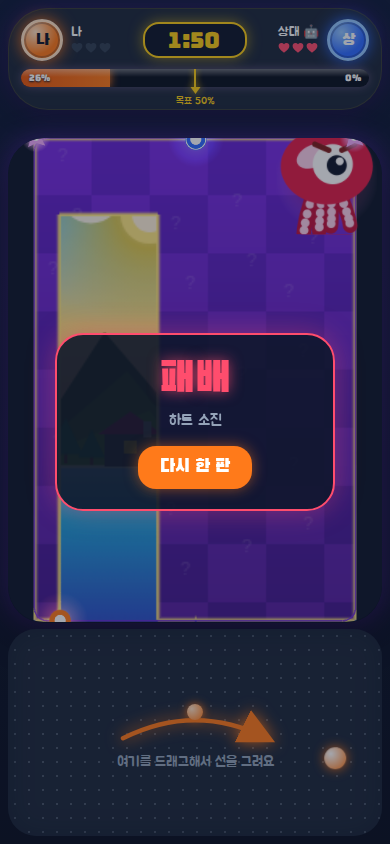
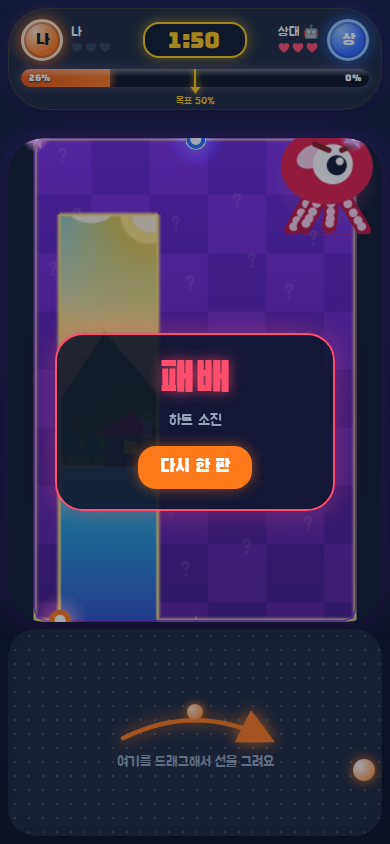
fix: keep the full Graphics spine through the cutter
CI failed at 0.4% missing white because trimTrailTip left the
orange orb ring (22–25px from the last trail cell) without a
white core. Draw the full polyline every update, keep it above
the cutter, and skip only the disc itself (lerp + far ring).

Local cover-layout 60/60 (10/10): 390/360/412 missing 0%, white
median 2–3px, p95 ≤1.9ms.

Changed region(s): [[0.7077, 0.2156, 0.9538, 0.2773], [0.8, 0.8626, 0.9846, 0.955]]

diff --git a/tests/e2e/cover-layout.spec.ts b/tests/e2e/cover-layout.spec.ts
@@ -77,6 +77,7 @@ async function measureWholeTrailWhite(page: Page): Promise<{
   whiteMin: number;
   orangeMedian: number;
   sampleMins: number[];
+  missAt: { i: number; dTip: number; dStart: number; min: number }[];
   backing: { w: number; h: number };
 }> {
   const png = await page.locator('#game-container canvas').screenshot();
@@ -107,6 +108,7 @@ async function measureWholeTrailWhite(page: Page): Promise<{
       const sampleMins: number[] = [];
       const whiteWidths: number[] = [];
       const orangeWidths: number[] = [];
+      const missAt: { i: number; dTip: number; dStart: number; min: number }[] = [];
       let missing = 0;
       let sections = 0;
       const isWhite = (p: [number, number, number]) => Math.min(p[0], p[1], p[2]) > 225;
@@ -136,12 +138,12 @@ async function measureWholeTrailWhite(page: Page): Promise<{
           prev = b;
           continue;
         }
-        // Orb disc covers the tip; origin stub is still on territory. Not a scan-axis cheat.
+        // Cutter disc + lerp: far ring sits ~25px from the last trail cell, not a H/V scan.
         if (start && Math.hypot(cx - start.x, cy - start.y) < 8) {
           prev = b;
           continue;
         }
-        if (tip && Math.hypot(cx - tip.x, cy - tip.y) < 16) {
+        if (tip && Math.hypot(cx - tip.x, cy - tip.y) < 28) {
           prev = b;
           continue;
         }
@@ -175,7 +177,15 @@ async function measureWholeTrailWhite(page: Page): Promise<{
         sampleMins.push(best);
         whiteWidths.push(maxWhite);
         orangeWidths.push(maxSolid);
-        if (maxWhite < 1) missing++;
+        if (maxWhite < 1) {
+          missing++;
+          missAt.push({
+            i: sections,
+            dTip: tip ? Math.round(Math.hypot(cx - tip.x, cy - tip.y) * 10) / 10 : -1,
+            dStart: start ? Math.round(Math.hypot(cx - start.x, cy - start.y) * 10) / 10 : -1,
+            min: best,
+          });
+        }
         prev = b;
       }
       const median = (arr: number[]) => {
@@ -191,6 +201,7 @@ async function measureWholeTrailWhite(page: Page): Promise<{
         whiteMin: whiteWidths.length ? Math.min(...whiteWidths) : 0,
         orangeMedian: median(orangeWidths),
         sampleMins,
+        missAt,
         backing: { w: width, h: height },
       };
     },

diff --git a/packages/client/src/main.ts b/packages/client/src/main.ts
@@ -340,8 +340,8 @@ class GameScene extends Phaser.Scene {
     this.trailGlowTexture?.setFilter(Phaser.Textures.FilterMode.LINEAR);
     this.trailGlowSprite = this.add.image(0, 0, 'trail-glow').setOrigin(0).setDepth(5.2);
     this.trailCoreGfx = this.add.graphics();
-    // Above glow (5.2), below the cutter (6) so the ring stays visible without trimming the spine.
-    this.trailCoreGfx.setDepth(5.5);
+    // Above glow (5.2) and the cutter (6): the spine must stay visible through the disc.
+    this.trailCoreGfx.setDepth(6.5);
     this.addPaintedTexture('orb-me', ORB_TEX, (g, s) => paintOrb(g, s, A.me), true);
     this.addPaintedTexture('orb-foe', ORB_TEX, (g, s) => paintOrb(g, s, A.foe, true), true);
     this.addPaintedTexture('orb-bloom-me', ORB_BLOOM_TEX, (g, s) => paintOrbBloom(g, s, A.me), true);
